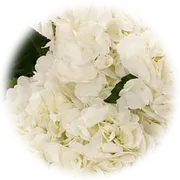
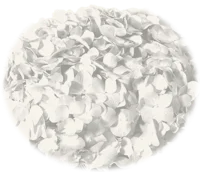
Preview: hydrangea heads from FarmDirect photo, recoloured to our four colours
Claude-Session: https://claude.ai/code/session_01PYfHQA8XYWgc3XRKMyMJoX

diff --git a/build-test.html b/build-test.html
@@ -331,7 +331,7 @@ textarea{width:100%;font:inherit;font-size:16px;border:1.5px solid var(--line);b
     var W = 300, cx = 150, cy = 118, R = 108, d = Math.max(30, Math.min(64, 2.3 * R / Math.sqrt(N))) * (photo ? 1.02 : 1), html = '';
     for(var i = N - 1; i >= 0; i--){ var l = deal[i], r = R * Math.sqrt((i + .5) / N), a = i * 2.39996, s = d * HEAD[l.f.k];
       var sn, x = cx + r * Math.cos(a) * 1.08, sn = Math.sin(a), y = cy - 6 + r * sn * (sn > 0 ? .42 : .8) - (1 - r / R) * 12;
-      html += '<span class="hd' + (photo ? ' ph' : '') + (!photo && rgb(l.c[2]).reduce(function(a, v){ return a + v; }, 0) > 690 ? ' lt' : '') + '" style="width:' + s.toFixed(1) + 'px;height:' + s.toFixed(1) + 'px;left:' + (x - s / 2).toFixed(1) + 'px;top:' + (y - s / 2).toFixed(1) + 'px;z-index:' + (100 - i) + ';transform:rotate(' + (photo ? ((i * 37) % 24) - 12 : (i * 47) % 360) + 'deg)">' + (photo ? '<img src="/img/heads/' + l.c[3] + '.webp?v=2" alt="" decoding="async">' : headSvg(l.f.k, l.c[2])) + '</span>'; }
+      html += '<span class="hd' + (photo ? ' ph' : '') + (!photo && rgb(l.c[2]).reduce(function(a, v){ return a + v; }, 0) > 690 ? ' lt' : '') + '" style="width:' + s.toFixed(1) + 'px;height:' + s.toFixed(1) + 'px;left:' + (x - s / 2).toFixed(1) + 'px;top:' + (y - s / 2).toFixed(1) + 'px;z-index:' + (100 - i) + ';transform:rotate(' + (photo ? ((i * 37) % 24) - 12 : (i * 47) % 360) + 'deg)">' + (photo ? '<img src="/img/heads/' + l.c[3] + '.webp?v=3" alt="" decoding="async">' : headSvg(l.f.k, l.c[2])) + '</span>'; }
     var greens = ''; for(var k = 0; k < (S.ex.green ? 12 : 7); k++){ var ga = Math.PI * (1.12 + k * (0.76 / (S.ex.green ? 11 : 6))), gx = cx + Math.cos(ga) * (R - 2) * 1.12, gy = cy + Math.sin(ga) * (R * .74) + 4;
       greens += '<span class="lf" style="left:' + (gx - 16).toFixed(1) + 'px;top:' + (gy - 30).toFixed(1) + 'px;transform:rotate(' + (ga * 57.3 + 90).toFixed(0) + 'deg)">' + LEAF + '</span>'; }
     // the wrap is two sheets: one fanned out behind the flowers, one folded in front, tied with a satin bow
